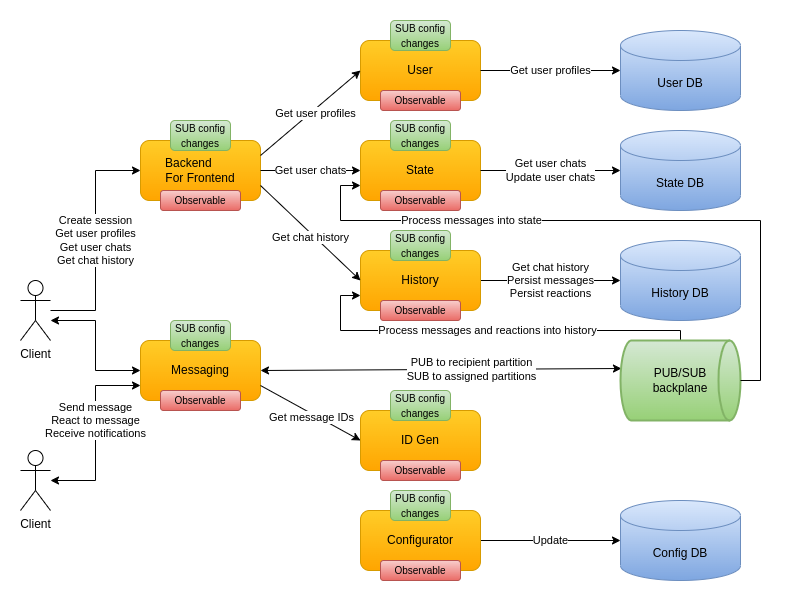
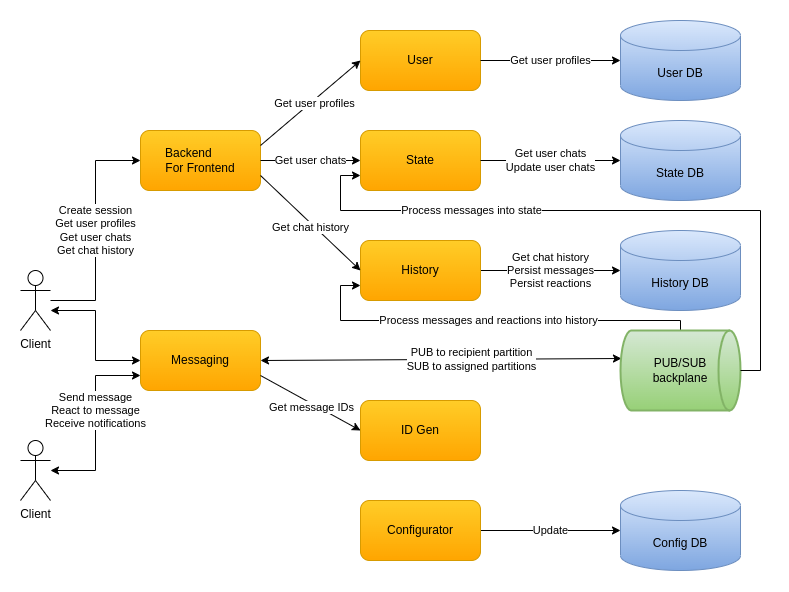
Improve overall and tech design diagrams

diff --git a/README.md b/README.md
@@ -76,8 +76,8 @@ Check out [what next](docs/what-next.md) needs to be implemented. I appreciate a
 
 # Design
 
-Overall design
+### Overall
 ![Design](docs/images/cecochat-01-overall.png)
 
-Technologies
+### Technologies
 ![Technologies](docs/images/cecochat-08-technologies.png)
